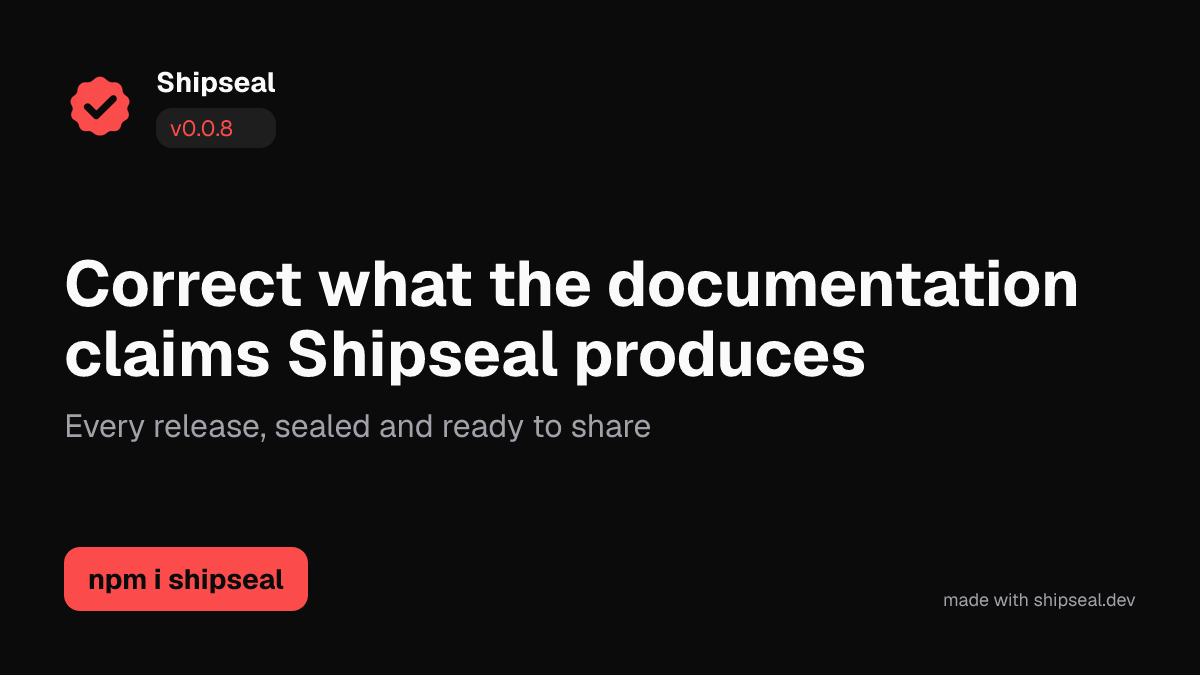
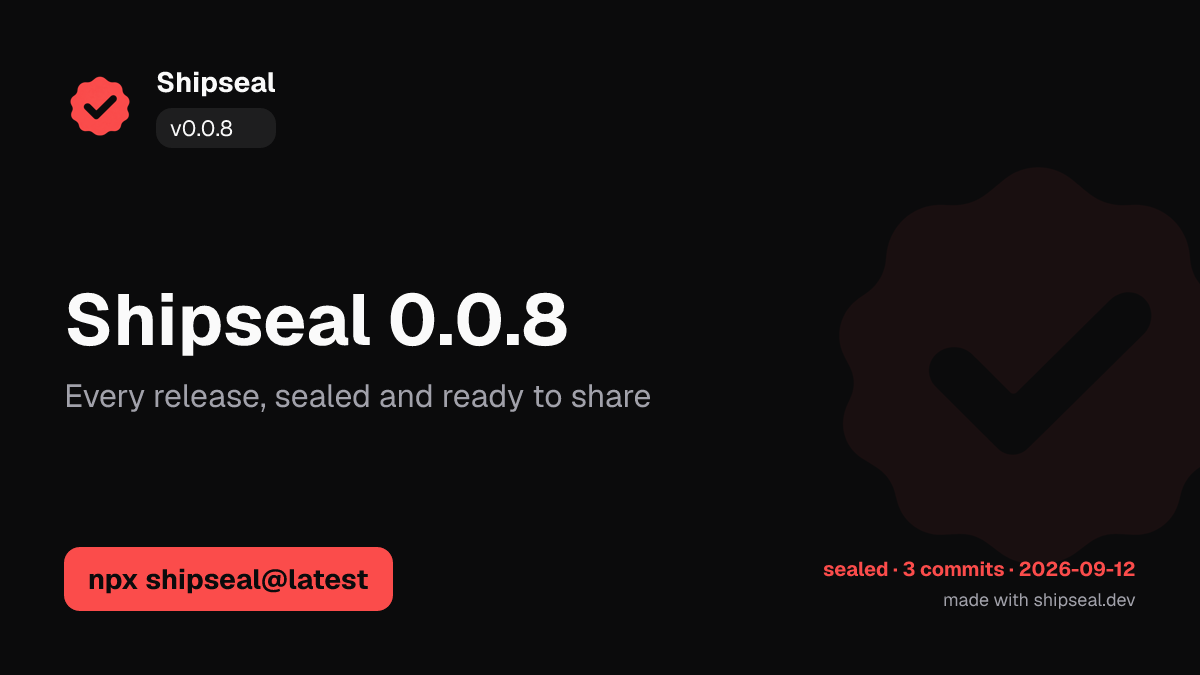
docs: add STATE.md and realign the docs with the repository
AGENTS.md asserted shipseal@0.0.3 and 2026-09-11 while the repository was at
0.0.8, and pointed at a plan section as the source of truth. It now points at
docs/STATE.md and asserts no version of its own, so it cannot drift that way
again.

STATE.md is written for whoever picks this up next: the facts, the invariants
that are not obvious from the code, what closed recently, and what is open
split by whether code or a real maintainer is needed.

Mark Phase 4 in progress with the finished items struck through and the actual
gate named: three external repositories, not started.

Regenerate the showcase, which still showed the pre-G7 cards. Only images moved,
since package.json and the tag both read 0.0.8.

diff --git a/docs/STATE.md b/docs/STATE.md
@@ -1,0 +1,71 @@
+# State
+
+Where Shipseal actually is. Read this before `PROJECT_PLAN.md`: the plan describes the design,
+this file describes the repository as it stands.
+
+> Last verified **2026-09-12** by running `pnpm lint && pnpm typecheck && pnpm test` and rendering
+> a real pack. If that date is more than a few weeks old, trust the repository and say so.
+
+## Facts
+
+| | |
+|---|---|
+| Version | `0.0.8` in `packages/shipseal/package.json`, tag `v0.0.8`, npm `0.0.8` |
+| Phases | 1 to 3 done and verified. Phase 4 (launch) in progress |
+| Tests | 17 files, 147 tests, 6 of them golden images |
+| Published by | `publish.yml` over OIDC, no npm token exists anywhere |
+| External adopters | **None yet.** See `adopters.md`. This is the gating number for launch |
+
+## What works end to end
+
+`shipseal init`, `release`, `milestone`, `bench`, `doctor`. The composite Action runs on a
+published release and attaches the pack. Shipseal generates its own release cards, and dogfooding
+has found more bugs than the test suite has.
+
+Five templates: `release-hero`, `release-highlights`, `code-card`, `milestone`, `bench`. Four
+formats render: `og`, `github-social`, `x`, `linkedin`. `square`, `portrait`, `producthunt` and
+`readme-banner` exist in `formats.ts` but **no template declares them**, enforced by a test.
+
+## Invariants worth knowing before you change anything
+
+- **`mergeFacts` fills holes, so the first source in the `parts` array wins.** Declared beats
+  derived: package.json before the git remote. Adding a new fact also means adding it to the
+  builder in `merge.ts`, or it is silently dropped.
+- **A fix is never a headline.** Every Changesets patch entry maps to a fix, so a patch release
+  falls back to `"{brand name} {version}"`. Override with `--headline`, `release.headline`, or a
+  `<!-- shipseal: headline "..." -->` marker in the release notes.
+- **Numbers on a card come from facts, never from a model.** The seal stamp
+  (`templates/primitives/seal.ts`) follows this: a missing fact drops its segment.
+- **Versions in `apps/docs/src` are generated or pinned.** A hardcoded version fails
+  `docs-versions.test.ts` unless it sits in a `shipseal:pinned` region explaining why. The
+  homepage output tree and the action references are rewritten by `refresh-showcase.mjs` during
+  `pnpm release`.
+- **`check:action-ref` runs in CI** and fails when a documented `akii09/shipseal@<ref>` does not
+  resolve. Changelogs are excluded: they are history, not instructions.
+
+## Recently closed
+
+From the 2026-09-12 review (`REVIEW_2026-09-12.md`), in order of ID: G2 release significance,
+G3 headline overrides, G4 honest output listing, G7 card design and the seal stamp, G8 code card
+snippet and title, G9 npm package detection in a workspace, G12 adopters file, G13 spelling.
+
+G15 was closed by decision: the plan and the site now describe competitors by category rather than
+by name.
+
+## Open, and who can do it
+
+| | |
+|---|---|
+| **G5, G11** | Get 3 external repositories running the Action. Needs real maintainers, not code. The Phase 4 gate |
+| **G1** | Cut a minor release with a user-facing feature and regenerate the showcase from it. G2 removed the worst symptom, but every showcase card is still from a patch |
+| **G6** | Show milestone and bench cards in the README and on the site |
+| **G10, G14** | Marketplace listing, launch assets. G14 needs a template that declares `producthunt` |
+| Partial G8 | Snippets come from the release section, not the specific entry the headline used. Fixing it changes the facts schema, so the manifest shape, so it needs the owner's sign-off |
+| Security | Only `publish.yml` pins actions to commit SHAs. `ci.yml`, `version.yml`, `shipseal.yml` and `action.yml` still use mutable tags |
+| Cleanup | `scripts/scaffold.sh` looks vestigial: a one-shot bootstrap that skips existing files and still pins `actions/checkout@v4` |
+
+## Hard rules that trip agents up
+
+`AGENTS.md` is binding. The three that catch people most often: never commit, push or tag; no em
+dashes anywhere; never run `pnpm test:update-golden` without the owner asking. Read `AGENTS.md`
+before touching anything.

diff --git a/docs/PROJECT_PLAN.md b/docs/PROJECT_PLAN.md
@@ -2,10 +2,11 @@
 
 > **Every release, sealed and ready to share.**
 >
-> Domain: `shipseal.dev` · npm: `shipseal` · Status: **Phase 3 complete, 0.0.3 published** · Owner: Akash (akii09)
+> Domain: `shipseal.dev` · npm: `shipseal` · Status: **Phase 4 in progress, 0.0.8 published** · Owner: Akash (akii09)
 >
-> Last reviewed 2026-09-11. Phases 1 to 3 are built and verified end to end. Next is Phase 4
-> (launch). Read §21 for what each phase proved.
+> Last reviewed 2026-09-12. See `STATE.md` for the current repository state, which is shorter
+> and kept closer to the code. Phases 1 to 3 are built and verified end to end, and Phase 4
+> (launch) is in progress. Read §21 for what each phase proved.
 >
 > This project ships first and learns from real users afterwards. There is no validation gate to
 > pass before building (§25).
@@ -1079,12 +1080,17 @@ Acceptance criteria:
 - `shipseal milestone` on PDFx produces a correct 1,000-stars card with provenance.
 - A bench fixture showing a regression is rendered honestly as a regression.
 
-### Phase 4: Launch NEXT
+### Phase 4: Launch IN PROGRESS
+
+> Done: the README shows generated visuals, shipseal.dev is live with quick start, config,
+> templates, manifest, FAQ and an agent page, and the 2026-09-12 review's card and copy work is
+> closed (see `STATE.md`). Outstanding: the 30-second GIF, the external repositories, and the
+> launch sequence itself.
 
 Tasks:
-1. README with generated visuals of Shipseal itself, a 30-second GIF of the flow, and the two-line install.
-2. Minimal docs site at shipseal.dev: what it is, quick start, config reference, templates gallery, FAQ.
-3. Onboard 3 or more maintainers privately before the public launch.
+1. ~~README with generated visuals of Shipseal itself~~ and the two-line install. A 30-second GIF of the flow is still missing.
+2. ~~Minimal docs site at shipseal.dev: what it is, quick start, config reference, templates gallery, FAQ.~~
+3. Onboard 3 or more maintainers privately before the public launch. **Not started, and this is the gate.**
 4. Launch sequence (Section 22).
 
 Acceptance criteria:

diff --git a/AGENTS.md b/AGENTS.md
@@ -57,9 +57,11 @@ Write the code an experienced maintainer would sign off on. Concretely:
 
 ## Where the project actually is
 
-`docs/PROJECT_PLAN.md` §21 is the source of truth and carries a `Last reviewed` date. As of
-2026-09-11: Phases 1 to 3 are done and verified, Phase 4 (launch) is next, and `shipseal@0.0.3`
-is published. If that date is stale, trust the repository over the plan and say so.
+`docs/STATE.md` says where the repository actually is, and carries a `Last verified` date. Read it
+first: it is short, it lists the invariants that catch agents out, and it names what is open and
+who can do it. `docs/PROJECT_PLAN.md` is the design and the decisions log behind it.
+
+If the date in `STATE.md` is stale, trust the repository over both documents and say so.
 
 This project ships first and learns from users afterwards. Do not propose validation gates or
 surveys before building something the owner has asked for.
